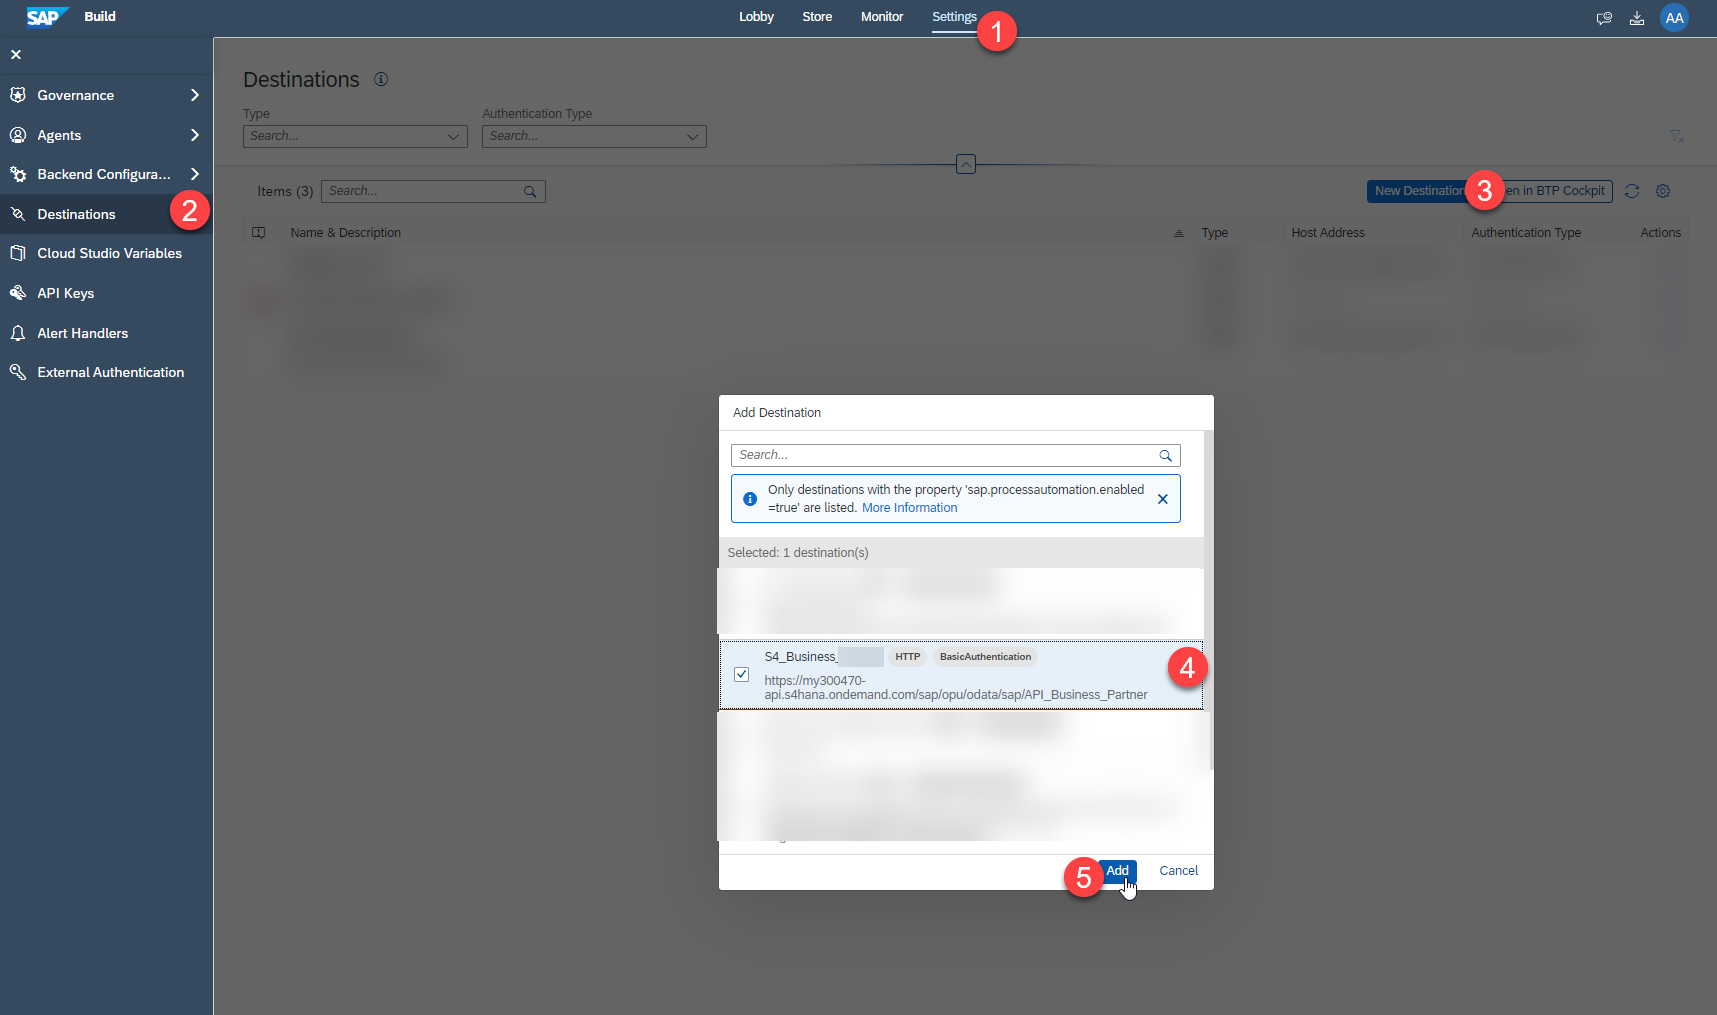
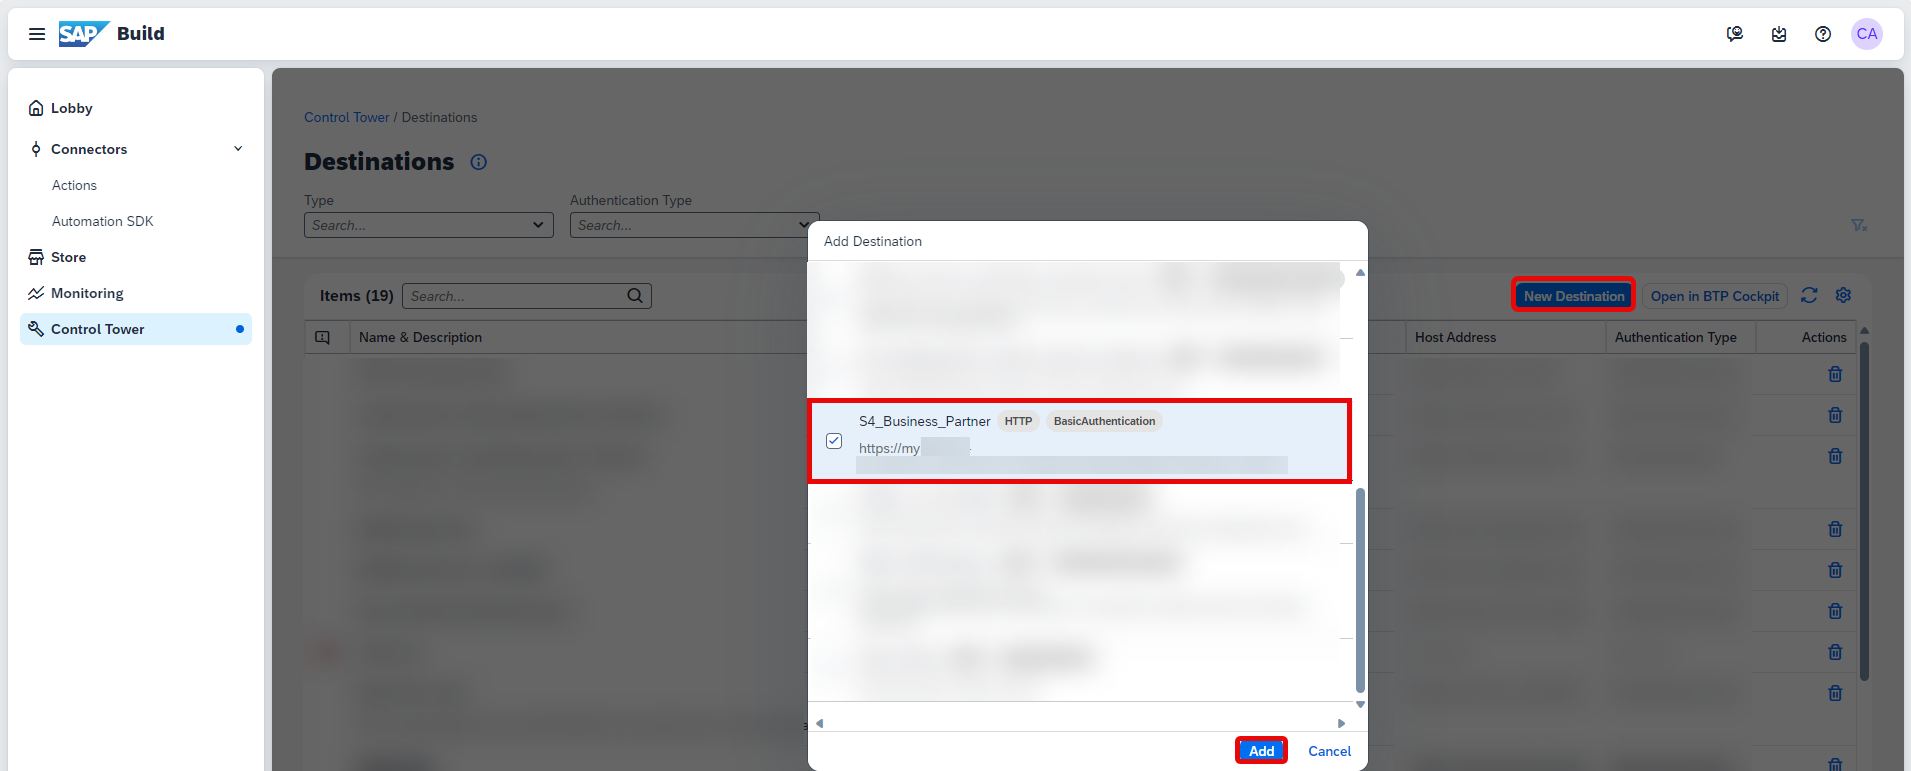
lobby changes: settings

diff --git a/tutorials/spa-dropdown-value-help-filtering-setupenv/spa-dropdown-value-help-filtering-setupenv.md b/tutorials/spa-dropdown-value-help-filtering-setupenv/spa-dropdown-value-help-filtering-setupenv.md
@@ -10,7 +10,7 @@ parser: v2
 ---
 
 # Setup Environment
-<!-- description --> Create destination in BTP cockît and set it in SAP Build Process Automation
+<!-- description --> Create destination in BTP cockpit and set it in SAP Build Process Automation
 
 ## You will learn
   - to add destination in SAP BTP Cockpit to connect to backend system
@@ -43,8 +43,11 @@ To configure action in business process, you will need to create an environment 
 1. Now that your destination is created in SAP BTP cockpit, you may set it in SAP Build Process Automation. To do so:
 
     - Open **SAP Build** development workbench.
-    - Click **Settings**.
-    - Go to **Destinations** section, and click **New Destination**.
+    - Click **Control Tower > Destinations**.
+  
+    <!-- border -->![Destination](002a.png)
+
+    - Click **New Destination**.
     - From **Add Destination** pop-up, select `S4_Business_Partner` destination.
     - Click **Add** to add a new destination in SAP Build Process Automation.
 
